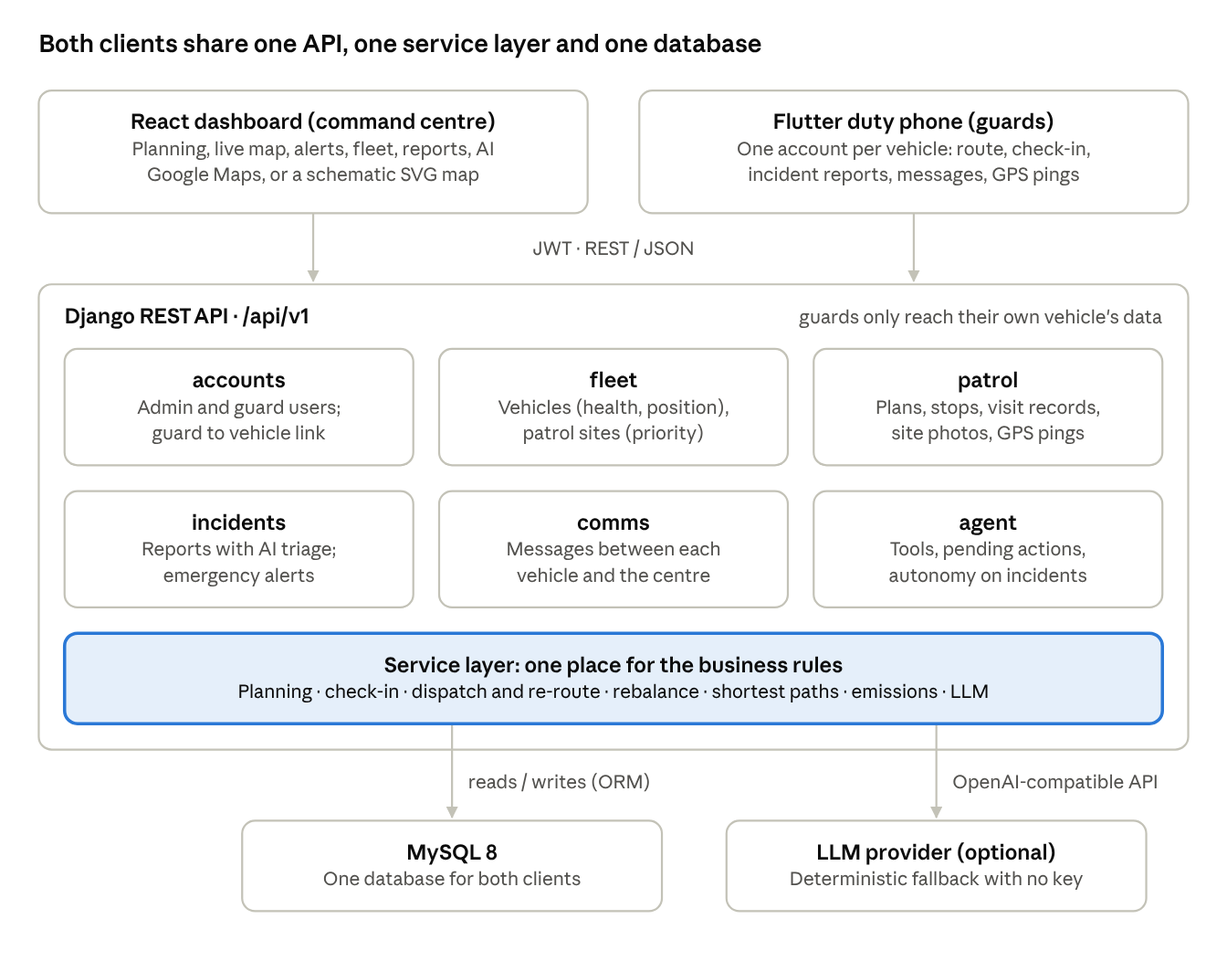
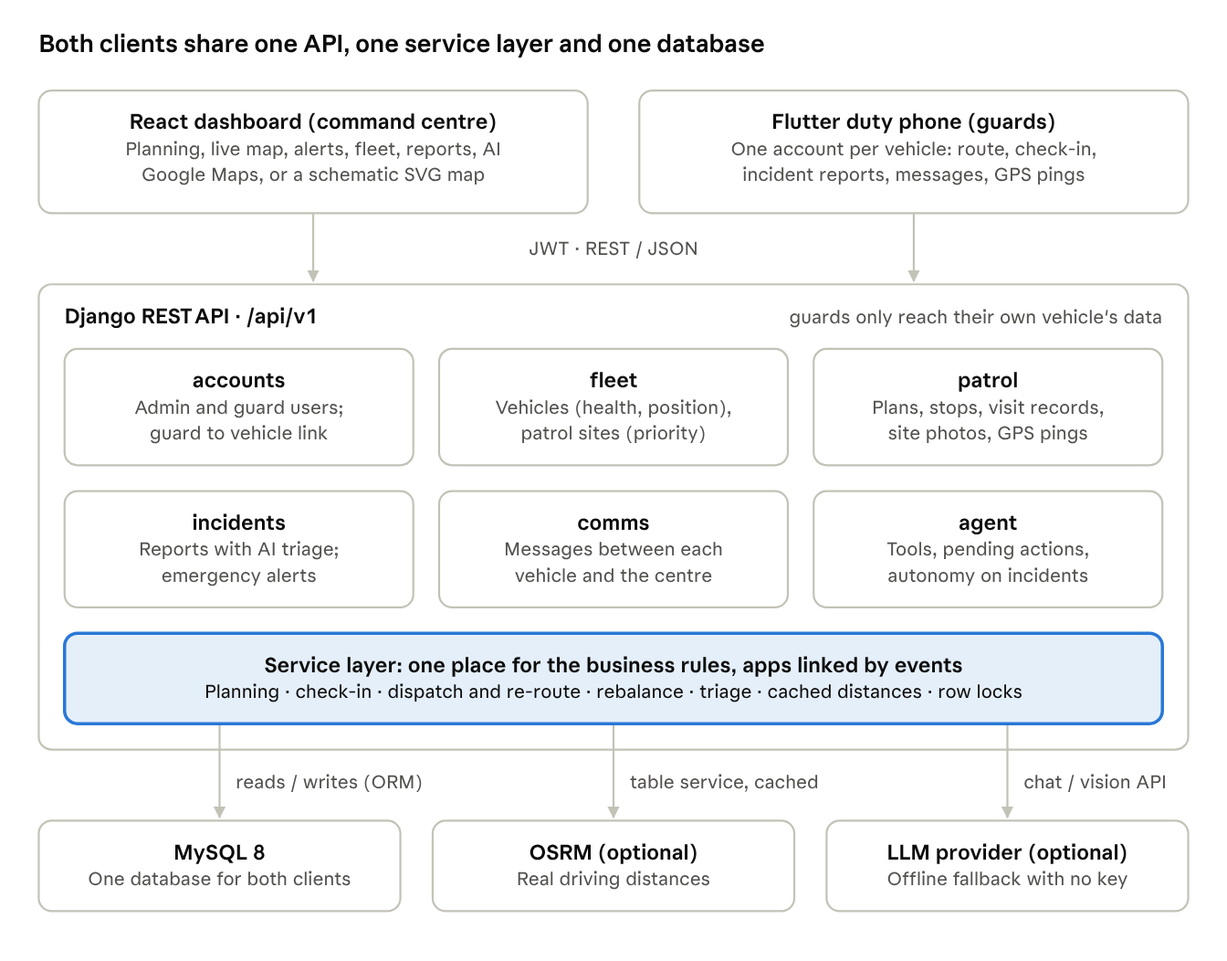
Docs: capstone background, architecture decisions and evaluation results
README and the project report now explain that this is a 2026 AI-assisted
rebuild of a lost 2022-2023 SIT-UofG capstone, mark what goes beyond the
original scope, document the architecture decisions, new settings and the
measured results, and update the architecture diagram.

Claude-Session: https://claude.ai/code/session_012m7XXTqgzgSdwuWRuaKcFn

diff --git a/docs/PROJECT_REPORT.md b/docs/PROJECT_REPORT.md
@@ -1,10 +1,16 @@
 # Dynamic Patrol Routing System — Project Report
 
-Huang Jiashu · 10 October 2026
+Huang Jiashu · revised 20 November 2026
+
+## Background
+
+This system was first built as my undergraduate capstone (CSC3001 Capstone Project, Singapore Institute of Technology – University of Glasgow Joint Degree in Computing Science, August 2022 – April 2023), an industry project with a Singapore security services company. Its problem definition and design draft are kept in the repository.
+
+The original source code was lost. The version described here is a 2026 rebuild written with AI assistance (Claude Code) from those two documents. It implements every original requirement and goes beyond the original scope in four places, marked as such in this report: the AI agent and LLM incident triage, real road distances through OSRM, the evaluation against OR-Tools, and the architecture hardening.
 
 ## Abstract
 
-The Dynamic Patrol Routing System automates the nightly route planning of a security patrol fleet and cuts the mileage driven, and therefore the carbon emitted, by about 55% against manual planning on the demo data (105 km versus 232 km a night).
+The Dynamic Patrol Routing System automates the nightly route planning of a security patrol fleet and cuts the mileage driven, and therefore the carbon emitted, by about half against manual planning: 56% on the demo night in the road model (102 km versus 232 km) and 48% when the same routes are costed on real driving distances (118 km versus 228 km). Its planner comes within 1.4–5.5% of Google OR-Tools while running in well under a second, and re-routing after an emergency saves a median 6.6 km per alarm on real roads.
 
 Today, command-centre administrators plan routes for roughly 50 sites and 5 vehicles by hand, collect proof-of-visit photos over WhatsApp, and send vehicles back to their original route after every emergency. The system replaces this with three parts: a Django REST backend with a priority-aware multi-vehicle route planner and a dynamic re-router, a React command-centre dashboard, and a Flutter app on each vehicle's duty phone. When an emergency alarm diverts a vehicle, its remaining stops are re-planned from the emergency site instead of driving back, and the saving is recorded. An optional AI agent lets operators run the system in plain language, with every action it proposes held for human confirmation.
 
@@ -64,13 +70,17 @@ Every requirement in the problem definition and the design draft is implemented.
 
 The solution is one backend serving two clients: a web dashboard for the command centre and a mobile app for each vehicle, both reading and writing the same central database.
 
-![System architecture: 2 clients, 6 backend apps, 1 service layer](images/architecture.png)
+![System architecture: 2 clients, 6 backend apps, 1 service layer, optional OSRM and LLM services](images/architecture.png)
 
-Every business rule (planning, check-in, dispatch, re-routing, rebalancing) lives in one service layer, which the API, the AI agent, the nightly command and the demo seeder all call. A rule therefore behaves the same no matter who triggers it.
+Every business rule (planning, check-in, dispatch, re-routing, rebalancing, incident triage) lives in one service layer per domain, which the API, the AI agent, the nightly command and the demo seeder all call. A rule therefore behaves the same no matter who triggers it.
+
+**Domain events.** Apps react to each other through events rather than direct imports. Incident triage publishes `incident_triaged`, to which the AI agent subscribes; dispatching a vehicle publishes `vehicle_dispatched`, to which messaging subscribes and sends the instruction to the duty phone in the same transaction. A failing subscriber to triage is logged and never blocks incident intake.
+
+**Concurrency.** Alerts, plans, stops and sites are row-locked while they change, and only an active alert can be dispatched. Two operators, or an operator and the agent, therefore cannot divert two vehicles to the same emergency, and a double-tapped check-in records one visit.
 
 **Data model.** The main entities follow the design draft: users with an admin or guard role; a guard profile with badge, availability, on-duty and driver flags and its linked vehicle; vehicles with plate, model, engine type, odometer, health status, availability and last known position; sites with coordinates, priority and an emergency flag. A plan holds ordered stops per vehicle, its total and baseline distance and emissions, and its re-route savings. Visits are stored as patrol records with their photos; GPS pings, incident reports, emergency alerts and messages complete the model.
 
-**Roles.** Administrators have full access. Guards can only read their own vehicle's stops, records, pings and messages and their own incident reports, and cannot reach planning, fleet management, dashboards or the agent.
+**Roles and security.** Administrators have full access. Guards can only read their own vehicle's stops, records, pings and messages and their own incident reports, and cannot reach planning, fleet management, dashboards or the agent. Login is rate-limited, a deployment check refuses to start production with the development secret key, HTTPS settings switch on behind TLS, and the health endpoint probes the database.
 
 ## Route planning and dynamic re-routing
 
@@ -94,15 +104,22 @@ Tests confirm they produce identical matrices, and the dashboard's Shortest path
 
 ### Daily multi-vehicle planner
 
-The planner implements the proposal's `shortestRoute(location_list, priority_location, num_car)` as a capacitated, priority-aware multi-vehicle travelling-salesman heuristic:
+The planner implements the proposal's `shortestRoute(location_list, priority_location, num_car)` as a capacitated, priority-aware multi-vehicle routing heuristic with multi-start local search:
 
-1. Build the distance matrix with the chosen algorithm.
-2. Give each vehicle one of the highest-priority sites as a seed.
-3. Insert the remaining sites one by one at the position that adds the least distance, capping each vehicle at ceil(n / vehicles) + 1 stops so the work is shared fairly.
-4. Re-order each route tier by tier: emergency sites first, then high and normal priority. Each tier is built with nearest-neighbour and improved with 2-opt.
-5. Move single sites between vehicles while doing so shortens the total, then re-optimise each route.
+1. Read the distance matrix (cached; see *Distance providers* below).
+2. Build four starting plans: one seeds each vehicle with a highest-priority site and inserts the rest at the position that adds the least distance; three sweep the sites around their centroid into equal sectors, at different rotations. Every vehicle gets at least one stop and at most ceil(n / vehicles) + 1, so the work is shared fairly.
+3. Improve each start with local search until no move helps: 2-opt inside a route, relocating a site (within or between routes), swapping two sites between routes, and exchanging the tails of two routes (2-opt*).
+4. Order each route tier by tier (emergency sites first, then high and normal priority) and keep the shortest plan. A tier-aware insertion plan is always a candidate, since it can win when priority tiers dominate.
+
+Every move is costed in constant time from the matrix, because only the edges at its ends change. On 300 sites this cut planning time from 4.5 s to 0.4 s compared with re-summing whole routes, and 500 sites plan within a 5 s search budget.
 
 Only operational vehicles are planned: those marked available and not in service or out of service. Vehicles can start from a shared depot or from their live GPS positions. The `plan_daily` command runs this nightly from cron, so no administrator input is needed.
+
+### Distance providers (added in the rebuild)
+
+Where the kilometres come from is pluggable. The default provider is the road-network model above: offline, deterministic, and the place where the three shortest-path algorithms run. The OSRM provider returns real driving distances on OpenStreetMap roads from an OSRM server's table service, averaged over both directions so the matrix stays symmetric. If OSRM cannot be reached, planning falls back to the model automatically.
+
+The site-to-site matrix depends only on site coordinates, so it is cached under a fingerprint of them: adding, moving or deactivating a site produces a new cache key, and nothing has to be invalidated by hand. A vehicle's live position joins the network as a *leaf* through its nearest sites. A route can start there but never passes through it, so a moving vehicle never forces the matrix to be recomputed.
 
 ### Dynamic re-routing after an emergency
 
@@ -171,7 +188,7 @@ The Flutter app runs on the phone in each vehicle. Each guard account is linked 
 
 The app talks to the same REST API as the dashboard, using JWT tokens that refresh automatically. The design draft suggested Firestore for mobile data; using the shared API and MySQL database instead keeps one source of truth for both clients.
 
-## AI agent and incident triage
+## AI agent and incident triage (added in the rebuild)
 
 AI is used in two places, and in both a human stays in control: the agent proposes, an operator confirms.
 
@@ -196,53 +213,101 @@ The stack follows the design draft (Django, MySQL, React, Flutter) and adds only
 | Authentication | JWT (SimpleJWT) with refresh-token rotation | Stateless tokens suit a mobile client; roles separate admins and guards |
 | API documentation | drf-spectacular (OpenAPI 3, Swagger UI) | Always-current contract for the mobile app |
 | Database | MySQL 8 (PyMySQL driver); SQLite for development | Central store required by the proposal; SQLite for zero-setup runs |
-| Algorithms | Pure Python: haversine, Prim's MST, Dijkstra, Bellman-Ford, Floyd-Warshall, insertion and 2-opt heuristics | No paid routing API; fully unit-testable |
+| Algorithms | Pure Python: haversine, Prim's MST, Dijkstra, Bellman-Ford, Floyd-Warshall, insertion, sweep and local-search heuristics | No paid routing API; fully unit-testable |
 | Dashboard | React 18, Material UI, MUI Data Grid, Nivo charts | Component library for data-heavy admin pages |
 | Maps | Google Maps JavaScript API (`@react-google-maps/api`), SVG fallback | Live tracking as specified; works without a key |
 | Mobile app | Flutter (Dart) with http, geolocator, image_picker, url_launcher, shared_preferences | One codebase for Android and iOS; GPS, camera, maps and phone calls |
 | AI | OpenAI-compatible chat and vision models via the `openai` SDK, with offline fallback | Provider-agnostic; demoable without a key |
+| Real road distances | OSRM table service (optional provider) | True driving distances without a paid API; falls back to the model |
+| Evaluation | Google OR-Tools (reference solver), matplotlib | Near-optimal benchmark and charts; development-only dependencies |
 | Deployment | Docker Compose (MySQL, Gunicorn web, dashboard), environment-based settings | Same setup on any machine |
 | Quality | Django test runner, GitHub Actions CI (backend tests, schema check, dashboard build, Flutter analyze and test) | Every push is checked |
 
 ## Testing and evaluation
 
-Automated planning cut nightly mileage by 55% against the manual baseline on the demo data, and all automated tests pass.
+Automated tests cover every layer, and a reproducible evaluation (`python -m evaluation.run`, added in the rebuild) measures the planner against stronger baselines, simulates emergencies, and checks the road model against real driving distances. Full tables: [`docs/evaluation/`](evaluation/README.md).
 
 ### Tests
 
 | Suite | Count | Covers |
 | --- | --- | --- |
-| Backend (Django) | 58 tests | Algorithm correctness and agreement, planner coverage, balance and priority order, re-route never worse than driving back, emissions, every API flow, role-based access |
+| Backend (Django) | 76 tests | Algorithm correctness and agreement, O(1) move costs against full recomputation, planner coverage, balance and priority order, re-route never worse than driving back, OSRM provider and fallback, matrix cache, concurrency (double dispatch), events, login throttle, deploy check, every API flow, role-based access, the evaluation code |
 | Dashboard | Production build with warnings treated as errors | All 12 pages also opened in a headless browser with no console errors |
 | Mobile (Flutter) | Static analysis plus 2 tests | Sign-in screen; parsing of the route payload |
 
-### Results
+### Planning quality against stronger baselines
 
-Measured on the seeded Singapore demo (20 sites, 4 operational vehicles) and on 50 randomly placed sites across Singapore with 5 vehicles:
+On random sites across Singapore's main island (about ten sites per vehicle), every method covered every site under the same balance cap. Google OR-Tools, an industrial routing solver, ran guided local search for 5–30 s per instance as a near-optimal reference.
 
-| Scenario | Optimised route | Manual baseline | Saving |
-| --- | --- | --- | --- |
-| Demo night, 20 sites, 4 vehicles | 105.2 km | 232.3 km | 127.1 km (55%), 18.3 kg CO2e |
-| Random 50 sites, 5 vehicles | 359 km | 1,009 km | 650 km (64%) |
-| Emergency diversion (demo) | 35.6 km | 48.1 km driving back | 12.5 km |
+![Planning quality](evaluation/planning_quality.png)
 
-The 50-site plan was computed in about 10 ms. Building the all-pairs matrix for 50 sites took 4 ms with Dijkstra, 15 ms with Bellman-Ford and 9 ms with Floyd-Warshall, and all three gave the same distances. A re-route saves nothing when the vehicle's last visited site already lies on the shortest road path; the system reports 0 km in that case rather than an estimate.
+| Sites, vehicles | This system vs OR-Tools | Greedy nearest | Sweep | Manual round-robin | This system's time |
+| --- | --- | --- | --- | --- | --- |
+| 20, 3 (10 instances) | +1.4% | +25.9% | +27.7% | +264% | 0.003 s |
+| 50, 5 (10 instances) | +3.2% (shorter on 1) | +29.7% | +22.6% | +532% | 0.02 s |
+| 100, 10 (5 instances) | +5.5% (shorter on 1) | +28.2% | +46.0% | +911% | 0.12 s |
+| 200, 20 (3 instances) | +1.8% (shorter on 2) | +28.7% | +55.4% | +1260% | 0.6 s |
 
-The baseline is a stand-in for manual planning, not data from the client's actual routes, so the real-world saving should be confirmed against recorded mileage.
+This system's plans are within 1.4–5.5% of OR-Tools, and shorter than OR-Tools on 4 of the 28 instances, at a fraction of the run time. The round-robin baseline is a deliberately simple stand-in for manual planning; against random sites it is far worse than a person would be, so the credible comparison is with the greedy and sweep heuristics, which this system beats by 20–50%.
+
+An earlier version of the planner (insertion plus relocation only) was 26% above OR-Tools at 50 sites. The evaluation exposed this, and the multi-start local search described above closed most of the gap.
+
+### Dynamic re-routing
+
+1,000 simulated alarms per scenario: a random vehicle is between two stops when an alarm goes off at a site still waiting on another vehicle's route. The old practice (go to the emergency, drive back to the last visited site, resume) is costed against the system's re-route.
+
+![Re-routing savings](evaluation/reroute_savings.png)
+
+| Scenario | Median saved | Mean saved | 90th percentile | Alarms with a saving | Saving vs driving back |
+| --- | --- | --- | --- | --- | --- |
+| Demo night, real roads | 6.6 km | 8.5 km | 20.0 km | 95.7% | 17.7% |
+| Demo night, road model | 11.3 km | 13.7 km | 27.1 km | 100% | 25.9% |
+| 50 random sites, road model | 2.6 km | 4.7 km | 12.4 km | 81.5% | 8.4% |
+
+A re-route saves nothing when the site the vehicle would drive back to already lies on its way; the system then reports 0 km.
+
+### Road model against real roads
+
+Real driving distances for every pair of the 20 demo sites and of 100 random sites came from the OSRM routing engine on OpenStreetMap data, with sites snapped to the nearest road.
+
+![Road model accuracy](evaluation/road_model_accuracy.png)
+
+| Sites | Real ÷ straight line (median) | Straight line error | Straight × 1.3 error | Road model error | Correlation |
+| --- | --- | --- | --- | --- | --- |
+| 20 demo | 1.37 | 29.5% | 11.6% | 11.8% | 0.987 |
+| 100 random | 1.45 | 32.6% | 14.0% | 15.0% | 0.960 |
+
+Errors are mean absolute percentage errors. The model's 1.3 circuity factor is the best fit: higher values make the model overestimate, because the sparse network already adds detours. The network does not beat a plain straight-line × 1.3 estimate on accuracy; its value is that it gives the shortest-path algorithms a real graph to search. Where accuracy matters, the OSRM provider uses real distances.
+
+On real roads the demo night still halves: the manual round-robin plan is 228.0 km, the plan made on the model 117.8 km (48% shorter), and a plan made directly on OSRM distances 109.9 km (52% shorter).
+
+### Shortest-path algorithms and scaling
+
+![Algorithm run times](evaluation/algorithm_runtimes.png)
+
+All three algorithms return identical distance matrices. At 200 sites the all-pairs matrix takes 0.04 s with Dijkstra, 0.10 s with Floyd-Warshall and 0.24 s with Bellman-Ford, so Dijkstra is the default.
+
+![Scalability](evaluation/scalability.png)
+
+A full plan takes under a second up to 200 sites and about 1–1.6 s at 300; at 500 sites the local search reaches its 5 s budget and returns its best plan so far.
+
+The manual baseline is still a stand-in, not the client's recorded routes, so the real-world saving should be confirmed against actual mileage.
 
 ## Limitations and future work
 
 The main limits come from approximating the road network and from validating on demo data rather than live operations.
 
-- **Road distances are approximate.** The nearest-neighbour network with a 1.3 circuity factor stands in for real roads. A road-network source such as OpenStreetMap or a distance-matrix API would give true driving distances and travel times, and would make the best-traffic comparison real rather than modelled.
-- **Heuristic, not optimal.** Multi-vehicle routing is NP-hard; insertion plus 2-opt and relocation gives good routes quickly but not proven optima. Metaheuristics from the literature (genetic algorithms, ant colony, tabu search) or an integer-programming solver could be benchmarked against it.
+- **The default distances are approximate.** The road model is off by 12–15% on average against real roads. The OSRM provider fixes this for distance, but neither models traffic or travel time, so the best-traffic comparison is still modelled; a time-aware matrix (OSRM durations, or a traffic API) is the next step.
+- **Heuristic, not optimal.** Multi-vehicle routing is NP-hard. The planner is within 1.4–5.5% of OR-Tools; using OR-Tools itself as an optional solver, with priority tiers expressed as constraints, would close the rest at the cost of seconds per plan.
+- **Scale.** Pure Python reaches its 5 s budget at about 500 sites. Beyond that, a compiled solver or a cluster-first split into regions would be needed.
 - **No time windows or shift limits.** Plans balance the number of stops, not driving time, and do not model site opening hours or a maximum shift length.
 - **Emission factors are averages.** Per-vehicle fuel consumption from telematics would make the estimates specific to each vehicle.
 - **Validation.** The manual baseline should be compared with the client's recorded routes, and the Flutter app still needs testing on physical Android and iOS devices.
 - **Notifications.** The duty phone polls for re-routes and messages; push notifications (for example Firebase Cloud Messaging) would deliver emergencies instantly.
+- **Background work.** LLM triage and very large plans run inside the web request. A task queue (Celery or RQ) would move them out, and a shared Redis cache would let all web workers reuse one distance matrix.
 
 ## Conclusion
 
 The Dynamic Patrol Routing System meets all four objectives of the problem definition. Nightly routes are planned automatically from the vehicles fit to drive, covering every site with priority sites first. Vehicles diverted to an emergency carry on from the emergency site instead of driving back. The command centre has live tracking, vehicle details, an emergency noticeboard and a carbon view. Guards plan, check in, report and contact the command centre from one app.
 
-On the demo data, the system cuts nightly mileage and CO2e by about 55% against manual planning and removes the nightly planning task altogether. The next steps are real road distances and validation against the client's recorded routes.
+The evaluation supports the design: plans within a few percent of an industrial solver in under a second, about half the mileage and CO2e of the manual baseline even on real roads, and a median 6.6 km saved per emergency diversion. The nightly planning task disappears altogether. The next steps are travel-time-aware distances and validation against the client's recorded routes.

diff --git a/README.md b/README.md
@@ -16,6 +16,32 @@ It has three parts:
 
 📄 Full write-up: [`docs/PROJECT_REPORT.md`](docs/PROJECT_REPORT.md) — problem
 statement, solution, algorithms, technology stack and evaluation.
+📊 Evaluation results: [`docs/evaluation/`](docs/evaluation/README.md).
+
+## Background: original capstone and this rebuild
+
+This project began as my undergraduate capstone, **"Dynamic Patrol Routing
+System"** (CSC3001 Capstone Project, Singapore Institute of Technology –
+University of Glasgow Joint Degree in Computing Science, August 2022 – April
+2023), an industry project with a Singapore security services company. The
+problem definition and design draft from that project are kept in this
+repository (`Capstone_Proposal_Huang_Jiashu_2001792.pdf`,
+`Capstone Draft.docx`).
+
+The original source code was lost. **This repository is a 2026 rebuild,
+written with AI assistance (Claude Code)** from those two documents: every
+requirement in them is implemented and traced in the table below. Commits made
+with that assistance carry a `Co-Authored-By: Claude` trailer.
+
+The rebuild deliberately goes beyond the original scope in a few places, so
+they are not mistaken for 2023 work:
+
+- the AI agent ("Sentinel") and LLM incident triage;
+- real driving distances through OSRM, and the evaluation framework that
+  compares the planner with OR-Tools and simpler heuristics
+  ([`evaluation/`](evaluation/run.py));
+- the architecture hardening described under
+  [Architecture decisions](#architecture-decisions) and the CI pipeline.
 
 An optional AI agent ("Sentinel") lets operators drive the system in natural
 language and reacts to serious incidents; every state-changing action it
@@ -31,7 +57,7 @@ From the capstone problem definition and design draft.
 
 | Requirement | How it is met |
 |---|---|
-| Plan each vehicle's route every day from the sites and **available** vehicles; cover every site; shortest overall distance | `core/services/routing.py → plan_patrol_routes`: capacitated, priority-aware multi-vehicle planner (balanced cheapest insertion, priority tiers, 2-opt, inter-route relocate). Only *operational* vehicles (available and not `in_service`/`out_of_service`) are planned. Every site is covered exactly once (tested). |
+| Plan each vehicle's route every day from the sites and **available** vehicles; cover every site; shortest overall distance | `core/services/routing.py → plan_patrol_routes`: capacitated, priority-aware multi-vehicle planner (multi-start local search: cheapest insertion and sweep starts, then 2-opt, relocate, swap and 2-opt* moves; priority tiers). Within 1–7% of OR-Tools on 20–100 sites ([evaluation](docs/evaluation/README.md)). Only *operational* vehicles (available and not `in_service`/`out_of_service`) are planned. Every site is covered exactly once (tested). |
 | No admin planning every night | `python manage.py plan_daily` (schedule with cron) or the one-click **Automatic plan** on the dashboard (`POST /plans/auto_daily/`). |
 | Re-plan the route of a vehicle involved in an emergency, without driving back | `reroute_after_emergency` + `patrol.services.dispatch_alert`: the vehicle goes to the emergency site and the rest of its stops are re-optimised from there. The site is removed from other vehicles' routes. The old practice (drive back to the last site and resume) is costed too, and the saving is stored on the alert and plan. |
 | Vehicles break down / go into maintenance | Unschedulable vehicles are excluded from new plans; **Rebalance** (`POST /plans/{id}/rebalance/`) hands a broken-down vehicle's unvisited sites to the rest of the fleet. |
@@ -80,16 +106,31 @@ From the capstone problem definition and design draft.
    plans and re-routes. Tunable via `ROUTING_CIRCUITY` / `ROUTING_NEIGHBOURS`.
 2. **Distance matrix** from Dijkstra (binary heap), Bellman-Ford or
    Floyd-Warshall — they produce identical matrices (tested).
-3. **Daily plan.** Seed each vehicle with a top-priority site, cheapest-insert
-   the rest under a balance cap, order each route tier-by-tier (emergency →
-   high → normal priority) with nearest-neighbour + 2-opt, then relocate sites
-   between vehicles while it shortens the total.
+   Distances can instead come from **OSRM** (real driving distances;
+   `ROUTING_PROVIDER=osrm`), with automatic fallback to the model. The site
+   matrix is cached; live vehicle positions attach to it as leaf points.
+3. **Daily plan.** Multi-start local search: a priority-seeded cheapest
+   insertion and three sweep (angular cluster) starts, each improved with
+   2-opt, relocate, swap and 2-opt* moves costed in O(1); routes are ordered
+   tier by tier (emergency → high → normal priority) and the shortest plan
+   wins. Every vehicle gets at most ceil(n / vehicles) + 1 stops.
 4. **Emergency re-route.** Current position → emergency site → remaining stops
    re-optimised from the emergency site, compared against the old practice of
    driving back to the last visited site and resuming the original order.
 
-On the seeded Singapore data the optimised nightly plan is ~105 km against a
-~232 km manual baseline (≈55% less mileage and CO2e).
+Measured results ([`docs/evaluation/`](docs/evaluation/README.md), reproduce
+with `python -m evaluation.run`):
+
+- Plans are within **1.4–5.5% of Google OR-Tools** on 20–200 random sites,
+  in 0.003–0.6 s (OR-Tools was given 5–30 s); greedy and sweep heuristics are
+  20–55% worse.
+- The demo night is **102 km against a 232 km manual baseline** (56% less
+  mileage and CO2e); costed on real OSRM driving distances it is 118 km
+  against 228 km (48% less).
+- Re-routing after an emergency saves a **median 6.6 km per alarm** on real
+  roads (1,000 simulated alarms; 96% of them see a saving).
+- The road model's distances are within 12–15% of real ones on average
+  (r = 0.96–0.99); 1.3 is the best-fitting circuity factor.
 
 ---
 
@@ -155,7 +196,12 @@ All settings are environment variables — see [`.env.example`](.env.example).
 | `USE_SQLITE` | `True` to skip MySQL for local runs |
 | `MYSQL_*` | Database connection |
 | `COMMAND_CENTRE_PHONE` | Number the duty phone's *Call* button dials |
-| `ROUTING_CIRCUITY`, `ROUTING_NEIGHBOURS` | Road-network model |
+| `ROUTING_PROVIDER` | `road_network` (offline model, default) or `osrm` (real driving distances, falls back to the model) |
+| `OSRM_URL` | OSRM server for `osrm` (the public demo server by default; run your own in production) |
+| `ROUTING_CIRCUITY`, `ROUTING_NEIGHBOURS` | Road-network model (1.3 is the best fit to real Singapore roads, see the evaluation) |
+| `DISTANCE_CACHE_SECONDS` | How long a site distance matrix is cached |
+| `LOGIN_THROTTLE_RATE` | Login attempts allowed per client (default `20/min`) |
+| `DJANGO_HTTPS` | `True` behind TLS: secure cookies, HSTS, HTTPS redirect |
 | `LLM_API_KEY`, `LLM_BASE_URL`, `LLM_TEXT_MODEL`, `LLM_VISION_MODEL` | OpenAI-compatible LLM. **Empty key = deterministic offline mode** |
 | `GOOGLE_MAPS_API_KEY` / `REACT_APP_GOOGLE_MAPS_API_KEY` | Google Maps on the dashboard (schematic map otherwise) |
 | `CORS_ALLOWED_ORIGINS` | Dashboard origin(s) |
@@ -185,6 +231,25 @@ All settings are environment variables — see [`.env.example`](.env.example).
 Permissions: admins have full access. Guards can only read their own
 vehicle's stops, records, pings, messages and their own incident reports, and
 cannot reach planning, fleet management, dashboards or the agent.
+
+### Architecture decisions
+
+| Decision | Why | Where |
+|---|---|---|
+| **One service layer per domain** | Planning, check-in, dispatch and triage rules exist once; the API, the AI agent, `plan_daily` and the seeder all call them. | `patrol/services.py`, `incidents/services.py` |
+| **Domain events between apps** | `incidents` publishes `incident_triaged` (the agent subscribes); `patrol` publishes `vehicle_dispatched` (messaging subscribes). Core logic no longer imports the agent or messaging, and a failing agent can never break incident intake. | `*/signals.py`, `*/receivers.py` |
+| **Pluggable distance providers** | The offline road-network model is deterministic and demonstrates the three shortest-path algorithms; OSRM gives real driving distances. If OSRM is down, planning falls back to the model. | `core/services/distance.py` |
+| **Cached site matrix, vehicles as leaf points** | The matrix depends only on site coordinates, so it is cached under a fingerprint of them and never needs manual invalidation. Live GPS positions attach as leaves, so a moving vehicle does not force a recompute. | `patrol.services.site_matrix`, `routing.attach_points` |
+| **O(1) move costs, multi-start local search** | Insertion, removal, 2-opt, swap and 2-opt* are costed from the matrix in constant time; 500 sites plan within the 5 s search budget. | `core/services/routing.py` |
+| **Row locks on state changes** | Alerts, plans, stops and sites are locked while changed. Only an active alert can be dispatched, so two operators (or an operator and the agent) cannot divert two vehicles to one emergency. | `patrol/services.py` |
+| **Human in the loop for AI writes** | The agent proposes; an operator confirms. Every tool call is stored for audit. | `agent/` |
+| **Secure defaults** | Role-scoped querysets, login rate limit, a deploy check that refuses the development `SECRET_KEY`, HTTPS settings behind `DJANGO_HTTPS`, a health check that probes the database. | `core/permissions.py`, `core/checks.py` |
+
+Not done yet, in order of value: a task queue (Celery or RQ) so LLM calls and
+very large plans leave the request cycle; push updates (WebSockets, or FCM for
+the phones) instead of polling; a shared Redis cache across Gunicorn workers
+(the default cache is per process); a production frontend container behind
+nginx.
 
 ### Key endpoints
 
@@ -225,9 +290,15 @@ deterministic keyword router (English and Chinese) keeps it fully demoable.
 ## Tests
 
 ```bash
-USE_SQLITE=True python manage.py test        # 58 backend tests
+USE_SQLITE=True python manage.py test        # 76 backend + evaluation tests
 cd frontend && CI=true npm run build         # dashboard build (warnings fail)
 cd mobile && flutter analyze && flutter test # duty-phone app
 ```
 
-CI runs all three on every push (`.github/workflows/ci.yml`).
+CI runs all three on every push (`.github/workflows/ci.yml`), plus a smoke
+run of the evaluation. The full evaluation needs the development extras:
+
+```bash
+pip install -r requirements-dev.txt          # OR-Tools, matplotlib
+python -m evaluation.run                     # ~8 min; writes docs/evaluation/
+```
